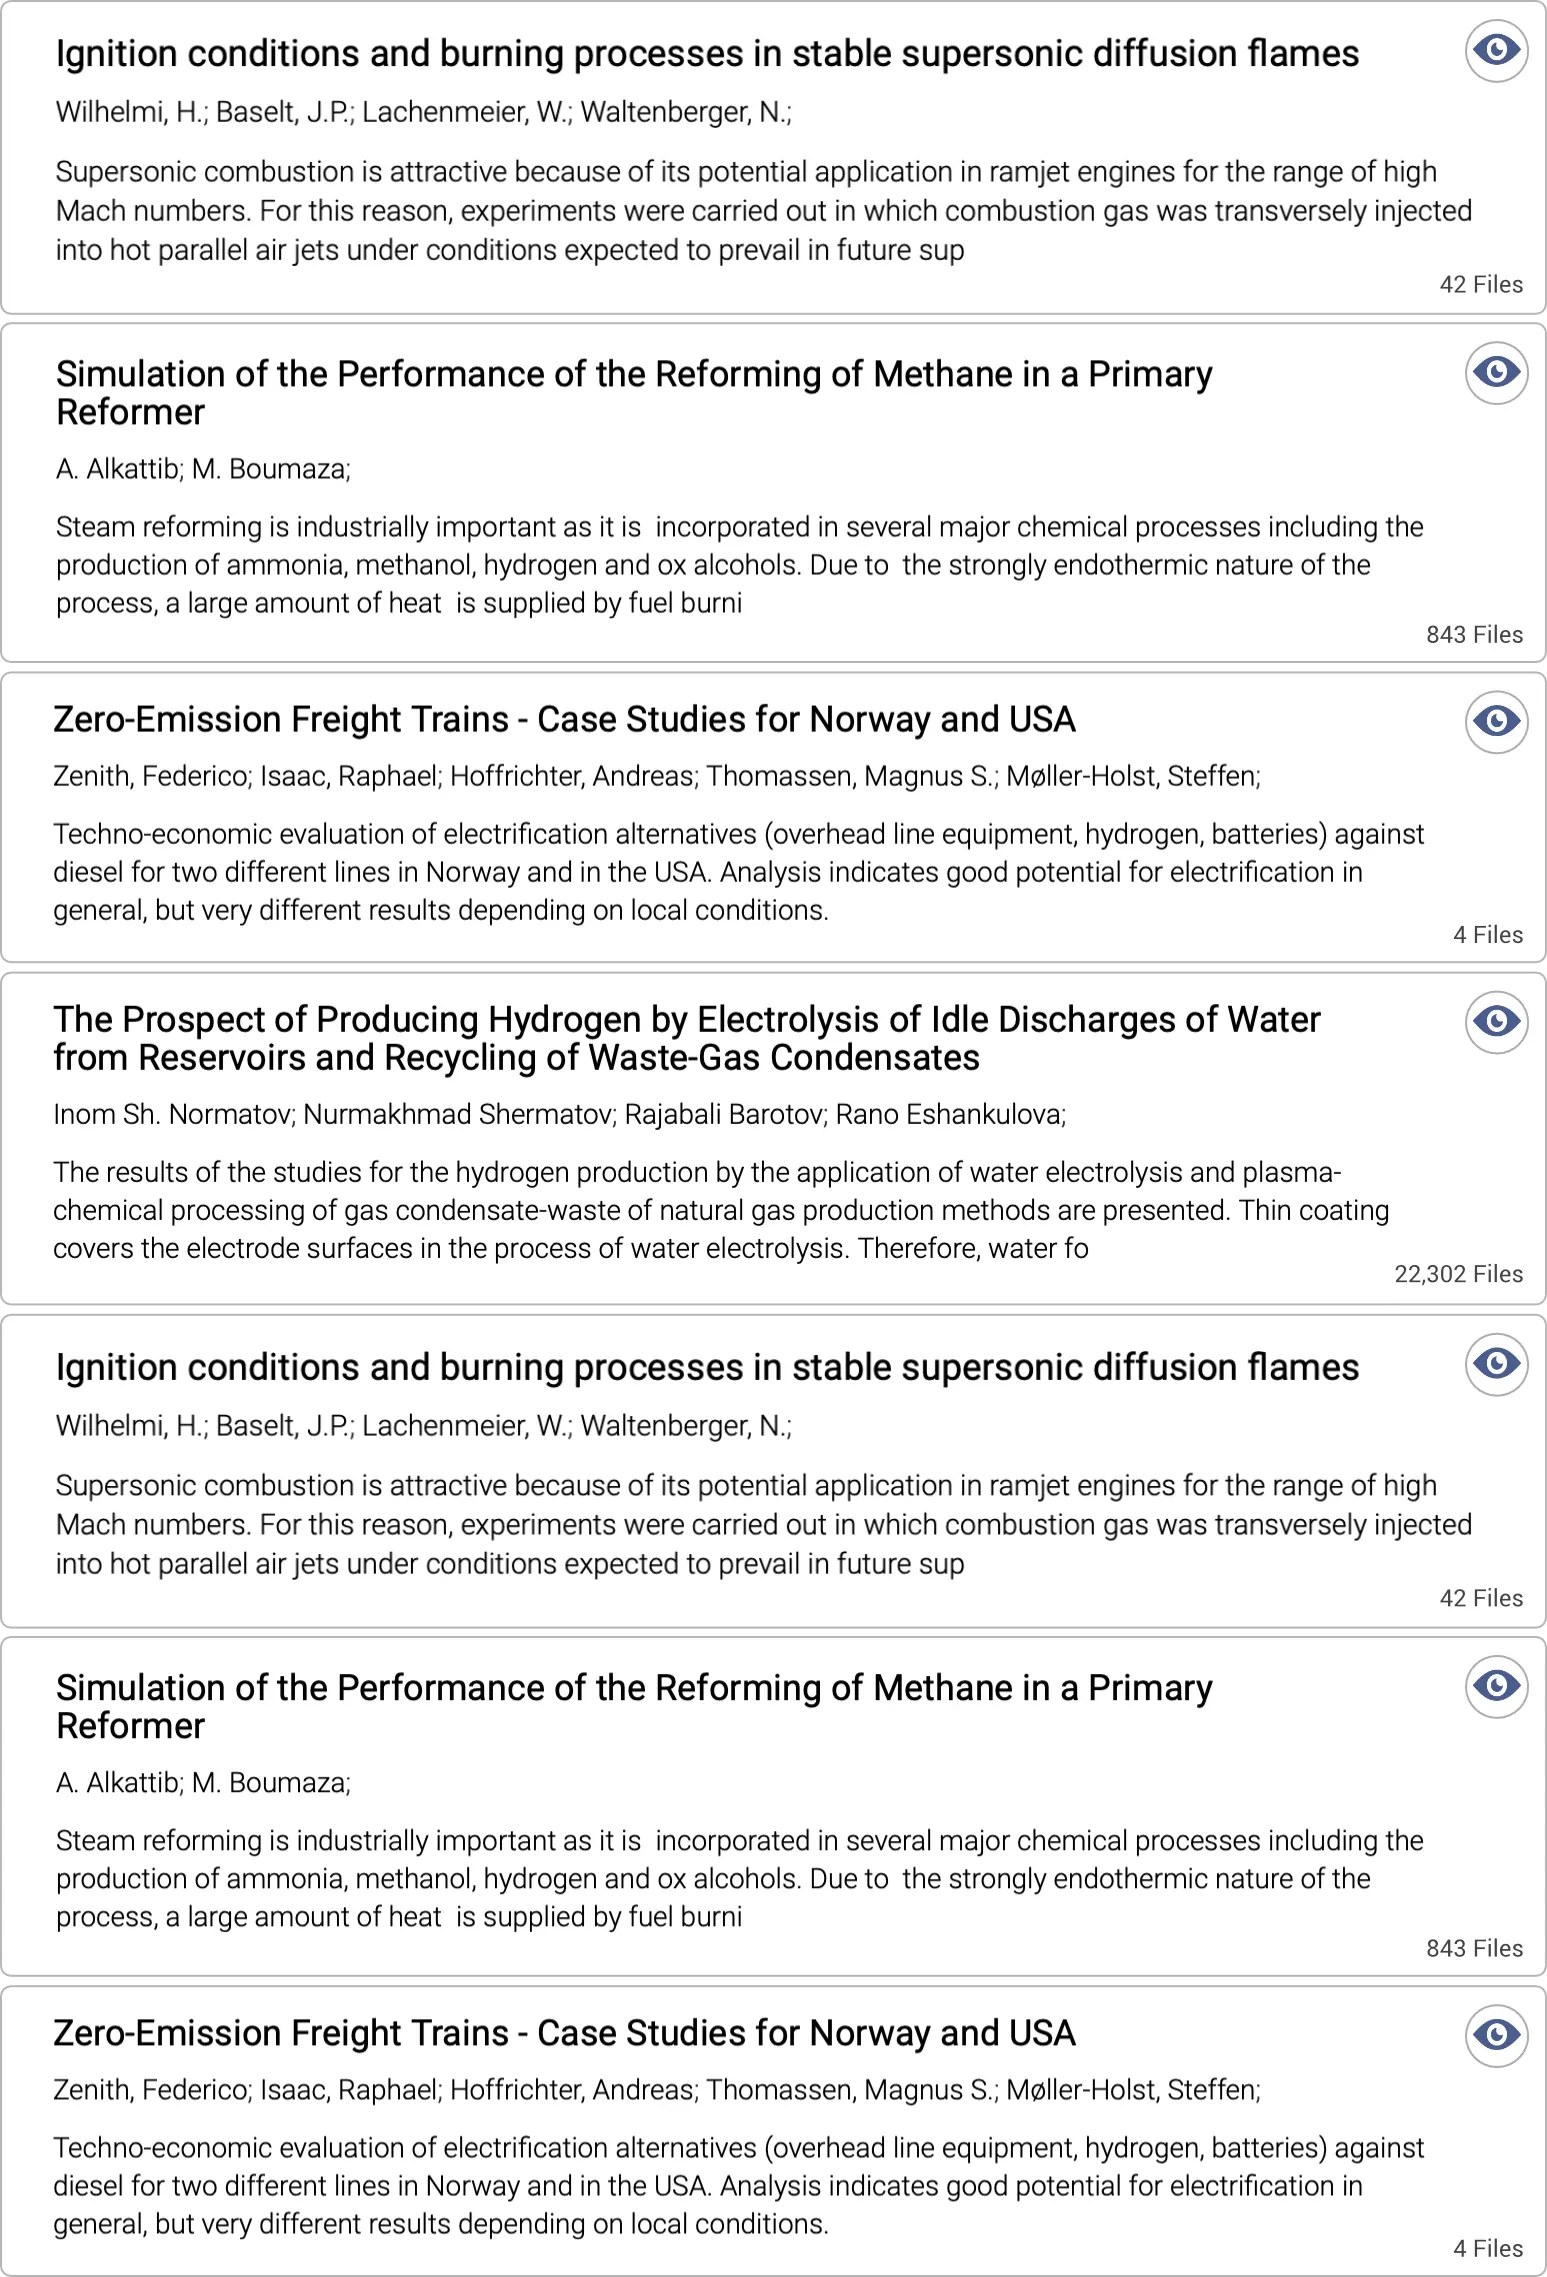
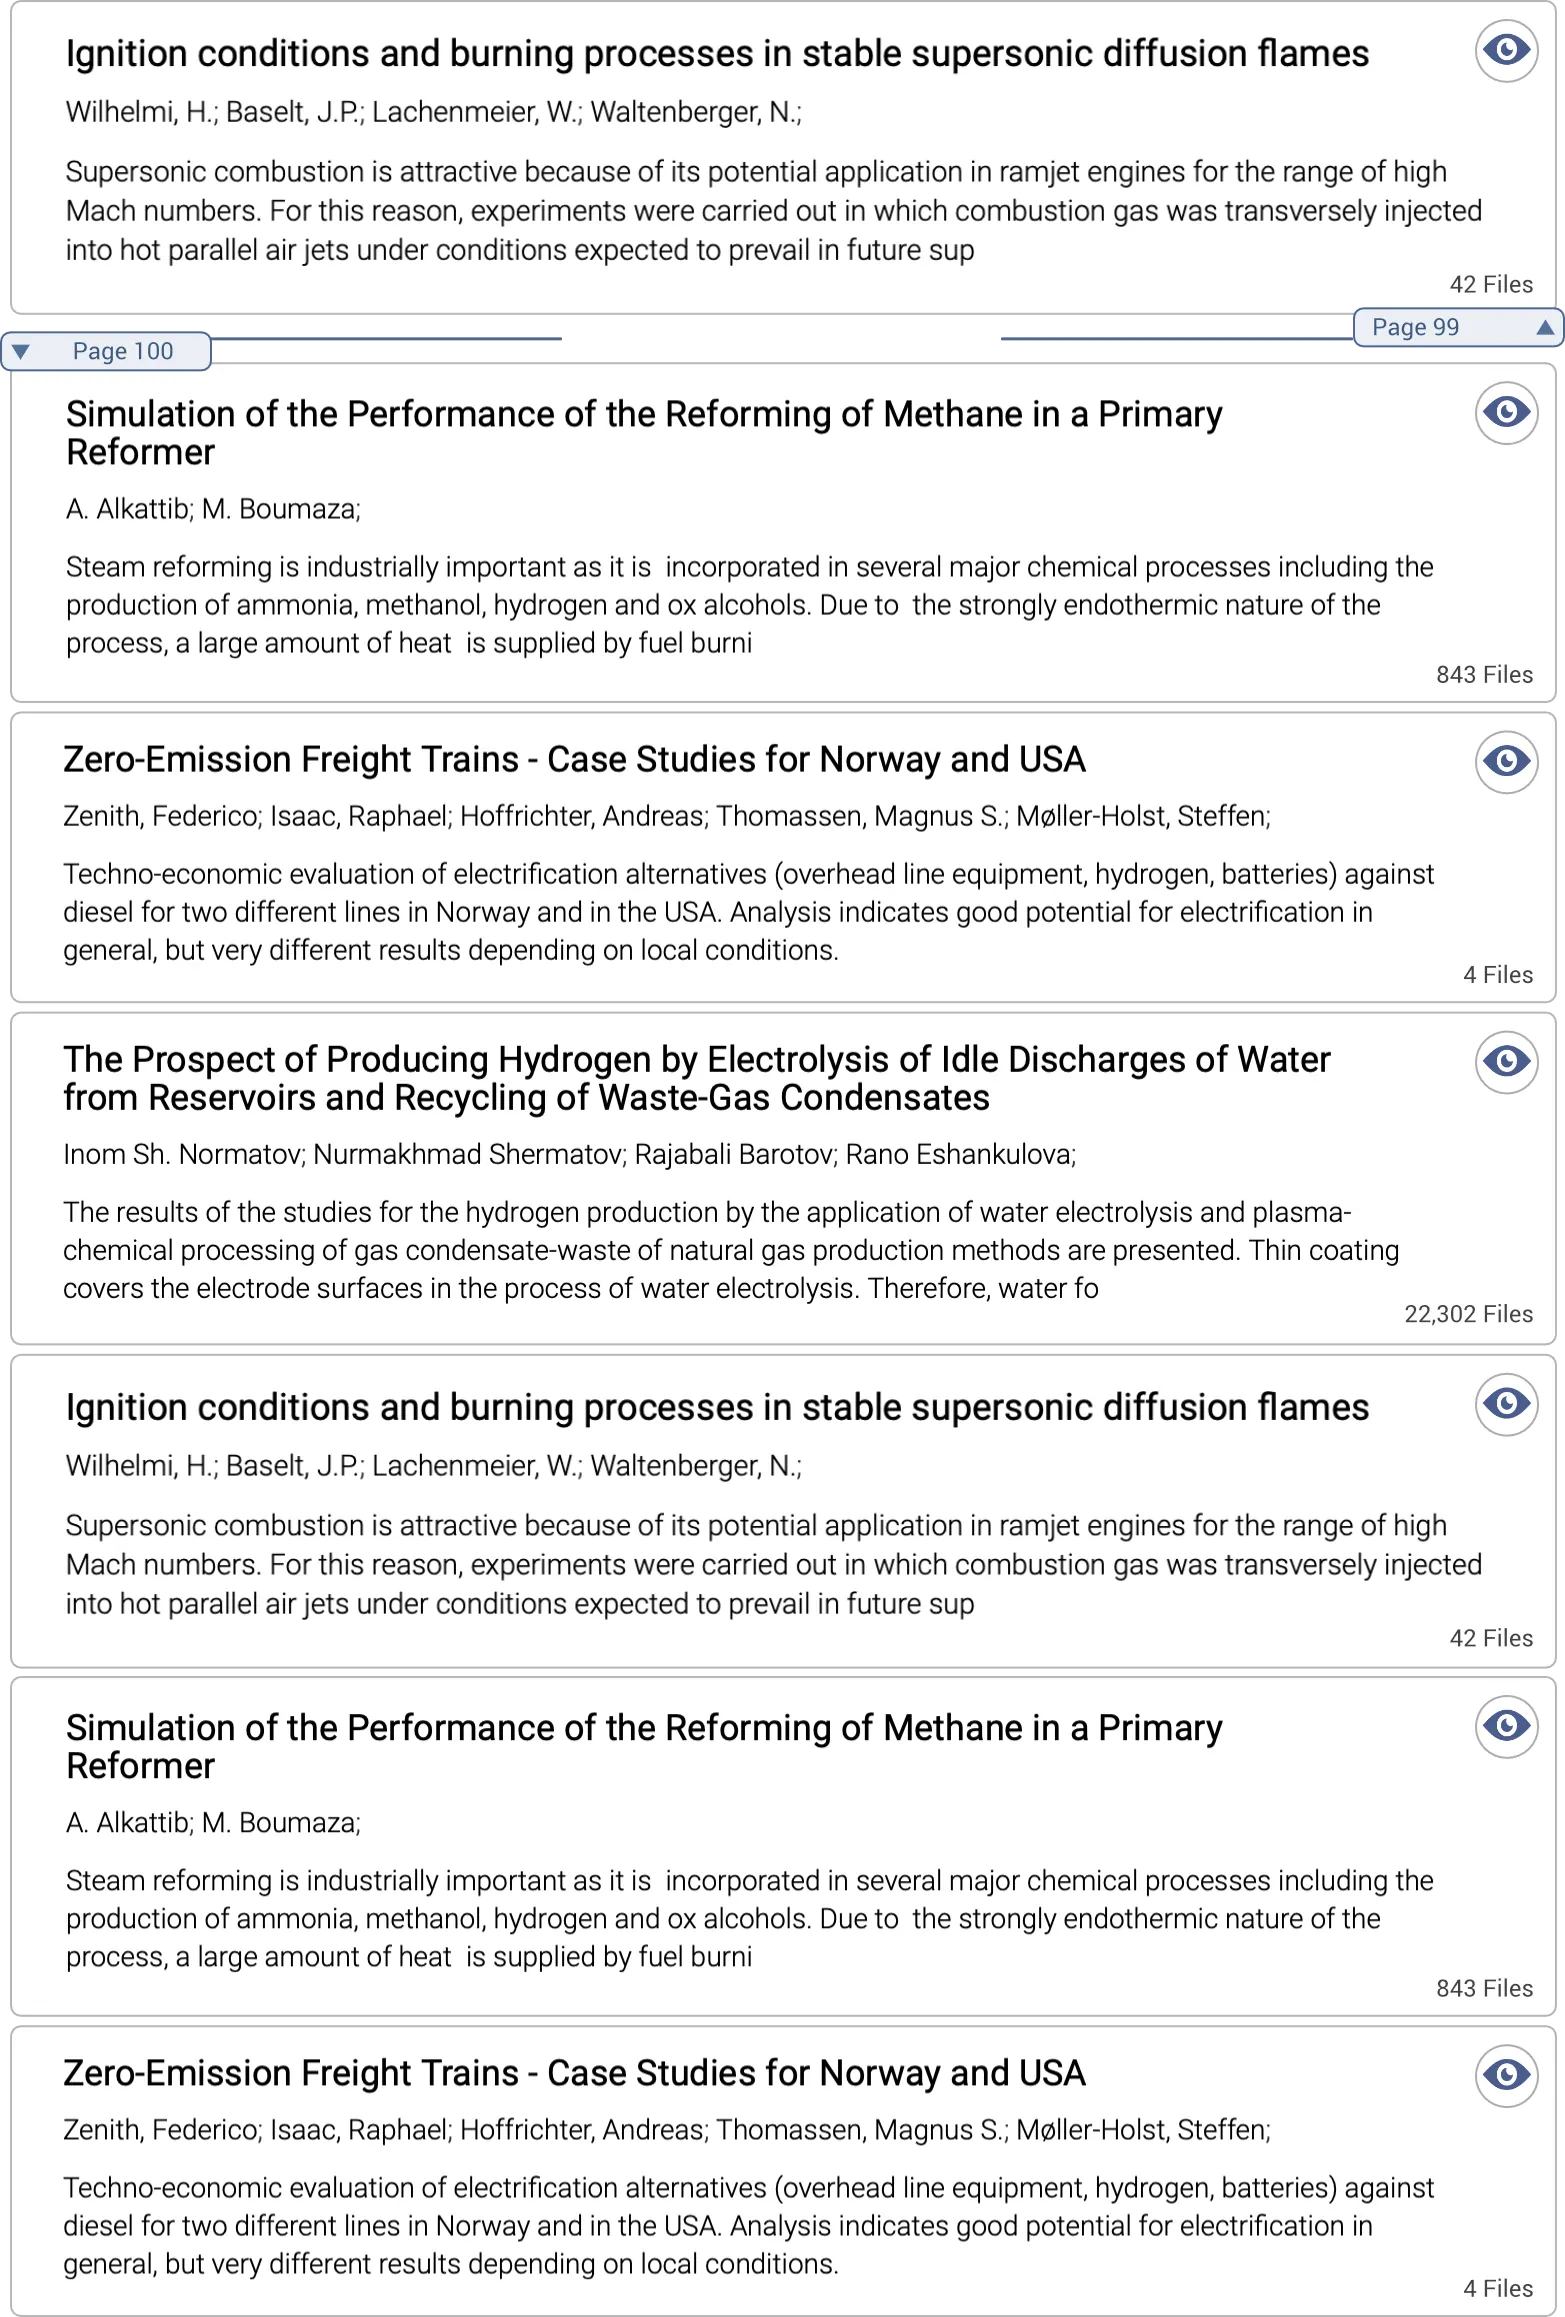
feat RD-85: Update pager with 'go' button to get cleaner look below, cleanup code, add .webp assets

Changed region(s): [[0.0, 0.0, 1.0, 1.0], [0.0, 0.9978, 0.031, 1.0]]

diff --git a/src/css/r2-boxes-v2.scss b/src/css/r2-boxes-v2.scss
@@ -9,7 +9,7 @@
                         top: 0px;
                         left: 0px;
                         width: 1150px;
-                        height: calc(100vh - 88px); // 420px;
+                        height: calc(100vh - 88px);
                         .inner {
                             left: 0px;
                             top: 0px;
@@ -81,20 +81,20 @@
 
                 .view {
                     .overlay {
+                        .v2-search-page-pager-go-bt {
+                            pointer-events: all;
+                            width: calc(81px / 2);
+                            height: calc(77px / 2);
+                            top: calc(100vh - 90px);
+                            left: 2px;
+                        }
                         .v2-search-page-pager-left {
                             width: calc(628px / 2);
                             height: calc(75px / 2);
                             top: calc(100vh - 90px);
-                            left: 2px;
+                            left: 40px;
                         }
-                        // .v2-search-page-pager-right {
-                        //     width: calc(445px / 2);
-                        //     height: calc(75px / 2);
-                        //     top: calc(100vh - 93px);
-                        //     left: 552px;
-                        // }
                     }
-
                     .fixed {
                         .v2-search-page-search-bar-top {
                             width: calc(1542px / 2);
@@ -129,7 +129,7 @@
                     .scrollable {
                         top: 62px;
                         left: 0px;
-                        height: calc(100vh - 88px - 62px);
+                        height: calc(100vh - 88px - 56px);
                         width: 785px;
                         .inner {
                             left: 0px;
@@ -139,99 +139,39 @@
                                 height: calc(2317px / 2);
                             }
                         }
-                        .elements {
-                            // .v2-search-page-pager-left {
-                            //     // 628 × 75
-                            //     width: calc(628px / 2);
-                            //     height: calc(75px / 2);
-                            //     top: calc(100vh - 101px);
-                            //     left: 2px;
-                            // }
-                            // .v2-search-page-pager-right {
-                            //     // 445 × 75
-                            //     width: calc(445px / 2);
-                            //     height: calc(75px / 2);
-                            //     top: calc(100vh - 101px);
-                            //     left: 552px;
-                            // }
-                        }
-
                         .click-zones {
                             .click-zone {
                                 left: 13px;
                                 width: 754px;
                                 height: 38px;
-                                // &.bt-search {
-                                //     top: 220px;
-                                //     left: 725px;
-                                //     width: 50px;
-                                // }
                                 &.show-ds-1 {
-                                    top: 5px; // 280
+                                    top: 15px;
                                 }
                                 &.show-ds-2 {
-                                    top: 166px;
+                                    top: 185px;
                                     height: 55px;
                                 }
                                 &.show-ds-3 {
-                                    top: 340px;
+                                    top: 365px;
                                     height: 35px;
                                 }
                                 &.show-ds-4 {
-                                    top: 493px;
+                                    top: 515px;
                                     height: 50px;
                                 }
                                 &.show-ds-5 {
-                                    top: 663px;
+                                    top: 685px;
                                     height: 45px;
                                 }
                                 &.show-ds-6 {
-                                    top: 824px;
+                                    top: 842px;
                                     height: 53px;
                                 }
                                 &.show-ds-7 {
-                                    top: 1000px;
+                                    top: 1015px;
                                     height: 37px;
                                 }
                             }
-                        }
-                    }
-                }
-
-                .view {
-                    .click-zones {
-                        .click-zone {
-                            left: 13px;
-                            width: 754px;
-                            height: 38px;
-                            // &.show-ds-1 {
-                            //     top: 280px;
-                            //     width: 100px;
-                            // }
-                            // &.show-ds-2 {
-                            //     top: 444px;
-                            //     height: 50px;
-                            // }
-                            // &.show-ds-3 {
-                            //     top: 620px;
-                            //     height: 35px;
-                            // }
-                            // &.show-ds-4 {
-                            //     top: 767px;
-                            //     height: 53px;
-                            // }
-                            // &.show-ds-5 {
-                            //     top: 938px;
-                            //     height: 38px;
-                            // }
-                            // &.show-ds-6 {
-                            //     top: 1097px;
-                            //     height: 53px;
-                            // }
-                            // &.show-ds-7 {
-                            //     top: 1274px;
-                            //     height: 37px;
-                            // }
                         }
                     }
                 }
@@ -270,31 +210,6 @@
                         left: 10px;
                         width: calc(100% - 20px);
                         transform: none;
-                    }
-                    .click-zones {
-                        .click-zone {
-                            // left: 13px;
-                            // width: 754px;
-                            // height: 38px;
-                            // &.show-ds-1 {
-                            //     top: 280px;
-                            // }
-                            // &.show-ds-2 {
-                            //     top: 444px;
-                            //     height: 50px;
-                            // }
-                            // &.show-ds-3 {
-                            //     top: 620px;
-                            //     height: 35px;
-                            // }
-                            // &.show-ds-4 {
-                            //     top: 460px;
-                            // }
-                            // &.show-ds-5 {
-                            //     top: 616px;
-                            //     height: 80px;
-                            // }
-                        }
                     }
                 }
             }

diff --git a/src/css/r2-assets.scss b/src/css/r2-assets.scss
@@ -25,22 +25,25 @@
             background-image: url(./r2-ui/v2/search-page.webp);
         }
         &.v2-search-page-scroll {
-            background-image: url(./r2-ui/v2/search-page-dataset-list.png);
+            background-image: url(./r2-ui/v2/search-page-dataset-list.webp);
         }
         &.v2-search-page-search-bar-top {
-            background-image: url(./r2-ui/v2/search-page-search-bar-top.png);
+            background-image: url(./r2-ui/v2/search-page-search-bar-top.webp);
+        }
+        &.v2-search-page-pager-go-bt {
+            background-image: url(./r2-ui/v2/search-page-pager-go-bt.webp);
         }
         &.v2-search-page-pager-left {
-            background-image: url(./r2-ui/v2/search-page-pager-left.png);
+            background-image: url(./r2-ui/v2/search-page-pager-left.webp);
         }
-        &.v2-search-page-pager-right {
-            background-image: url(./r2-ui/v2/search-page-pager-right.png);
-        }
+        // &.v2-search-page-pager-right {
+        //     background-image: url(./r2-ui/v2/search-page-pager-right.webp);
+        // }
         &.v2-search-page-facets-up {
-            background-image: url(./r2-ui/v2/search-page-facets-up.png);
+            background-image: url(./r2-ui/v2/search-page-facets-up.webp);
         }
         &.v2-search-page-facets-dn {
-            background-image: url(./r2-ui/v2/search-page-facets-dn.png);
+            background-image: url(./r2-ui/v2/search-page-facets-dn.webp);
         }
         //
         &.v2-dataset-view-public-scroll {

diff --git a/src/js/R2UiBoxDefinitions.js b/src/js/R2UiBoxDefinitions.js
@@ -71,6 +71,7 @@ function R2UiBoxDefinitions() {
                     },
                     overlay: {
                         elements: {
+                            'v2-search-page-pager-go-bt': { click: true },
                             'v2-search-page-pager-left': {}
                             // 'v2-search-page-pager-right': {}
                         }
